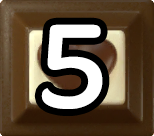
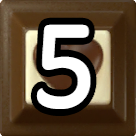
made everything square

diff --git a/styles.css b/styles.css
@@ -97,7 +97,7 @@
 }
 
 .elements-container button {
-  width: 54px;
+  width: 48px;
   height: 48px;
 }
 
@@ -126,7 +126,7 @@
 
 .board-area td {
   position: relative;
-  width: 72px;
+  width: 64px;
   height: 64px;
 }
 
@@ -167,7 +167,7 @@
   align-content: center;
   justify-content: center;
   pointer-events: none;
-  left: 5;
+  left: 0;
   margin: 0;
   padding: 0;
   max-width: 64px;
